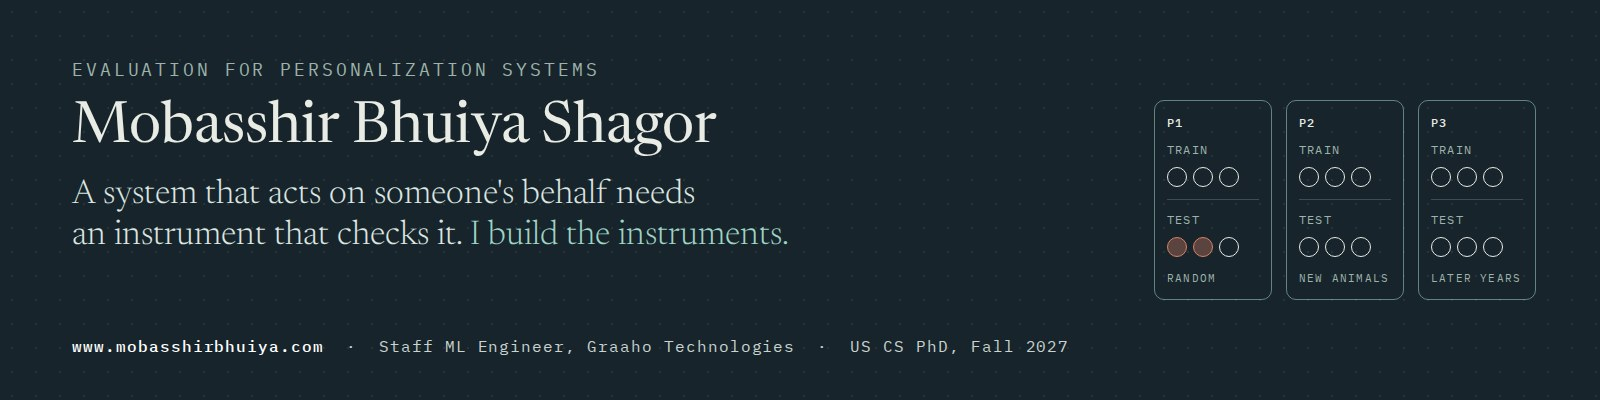
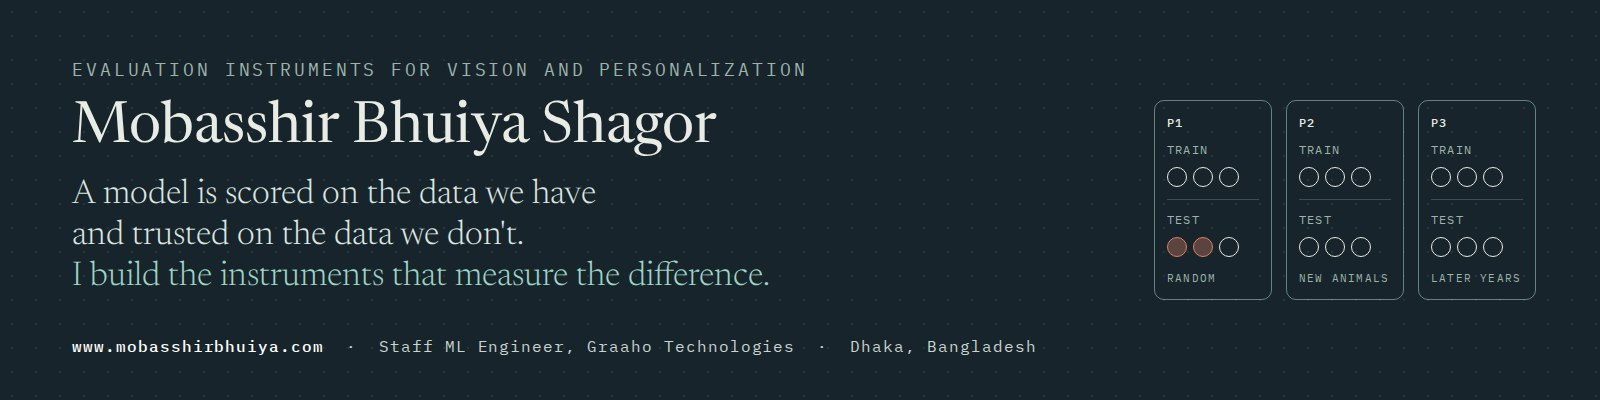
Update based on the 20th October

diff --git a/README.md b/README.md
@@ -1,16 +1,16 @@
-![Mobasshir Bhuiya Shagor. A system that acts on someone's behalf needs an instrument that checks it. I build the instruments.](banner.jpg)
+![Mobasshir Bhuiya Shagor. A model is scored on the data we have and trusted on the data we don't. I build the instruments that measure the difference.](banner.jpg)
 
 ### Hi, I'm Mobasshir
 
-I build instruments that test whether a learned system still deserves trust once it meets real people: longitudinal benchmarks, evaluation protocols that separate identity leakage from genuine distribution shift, and audits of whether a recommender's explanation matches what it actually did.
+I build benchmarks, protocols and audits that test whether a model's reported performance survives deployment, anchored in computer vision and extended to personalization. In vision, that means longitudinal benchmarks whose protocols separate identity leakage from genuine distribution shift; in personalization, audits of whether a recommender's explanation matches what it actually did.
 
-It started with a cow. In 2019 I built a model that estimates a cow's weight and breed from photographs, and it was a runner-up at Bangladesh's national ICT awards. What nobody asked was whether it would still work a year later, on animals it had never seen. I spent the next six years collecting the data to find out.
+It started with a cow. In 2019 I built a model that estimates a cow's weight and breed from photographs, and it was second runner-up for AI in Agriculture at Bangladesh's BASIS National ICT Awards. What nobody asked was whether it would still work a year later, on animals it had never seen. I spent the next six years collecting the data to find out.
 
-By day I'm a Staff ML Engineer at [Graaho Technologies](https://www.graaho.com/) in Dhaka, where I lead the machine learning and backend team. I'm applying to US PhD programmes in computer science for Fall 2027, and I'm open to applied scientist roles.
+By day I'm a Staff ML Engineer at [Graaho Technologies](https://www.graaho.com/) in Dhaka, where I lead the machine learning and backend team. Almost every question I research began as a problem in production.
 
 **Research**
 
-- **BoviShift** (first author, project lead): a six-year benchmark of 2,657 animals that splits an accuracy drop into identity leakage and temporal shift. Code and data will be released publicly.
+- **BoviShift** (first author, project lead): a six-year benchmark of 2,657 animals that splits an accuracy drop into identity leakage and temporal shift. Code and data will be released publicly. Two follow-up studies with the same team are under way.
 - **Auditing LLM-based recommenders** (in preparation): does the stated explanation match the ranking, does the model invent item attributes, and do those failures fall unevenly across users? Runs without GPU compute.
 - **[CID](https://github.com/bhuiyanmobasshir94/CID)** (ICCA 2022): 513 cattle across 8 breeds, 2,052 photographs and 15,812 video frames, released with regression and classification baselines. [Paper](https://doi.org/10.1145/3542954.3543018)
 
@@ -37,5 +37,7 @@ Each rule is a small evaluation instrument inside a product. My research asks ho
 I translated Week 12 of the [NYU Deep Learning course](https://atcold.github.io/NYU-DLSP20/bn/week12/12/) (Yann LeCun and Alfredo Canziani) into Bengali. AWS Certified Machine Learning, Specialty. Kaggle 3× Expert.
 
 Most of my day-to-day work is in PyTorch, FastAPI, MLflow, Airflow and AWS (SageMaker, Bedrock).
+
+If you work on evaluating vision systems, recommenders or agents, in a lab or on a product team, I'd like to hear what you're measuring.
 
 **Find me:** [mobasshirbhuiya.com](https://www.mobasshirbhuiya.com) · [Google Scholar](https://scholar.google.com/citations?user=QS61JrYAAAAJ) · [ORCID](https://orcid.org/0000-0003-3912-7650) · [Semantic Scholar](https://www.semanticscholar.org/author/Mobasshir-Bhuiya-Shagor/1575439165) · [DBLP](https://dblp.org/pid/272/7701) · [LinkedIn](https://www.linkedin.com/in/mobasshir-bhuiya-shagor/) · [Kaggle](https://www.kaggle.com/mobasshir) · [mobasshir.bhuiya@gmail.com](mailto:mobasshir.bhuiya@gmail.com)
